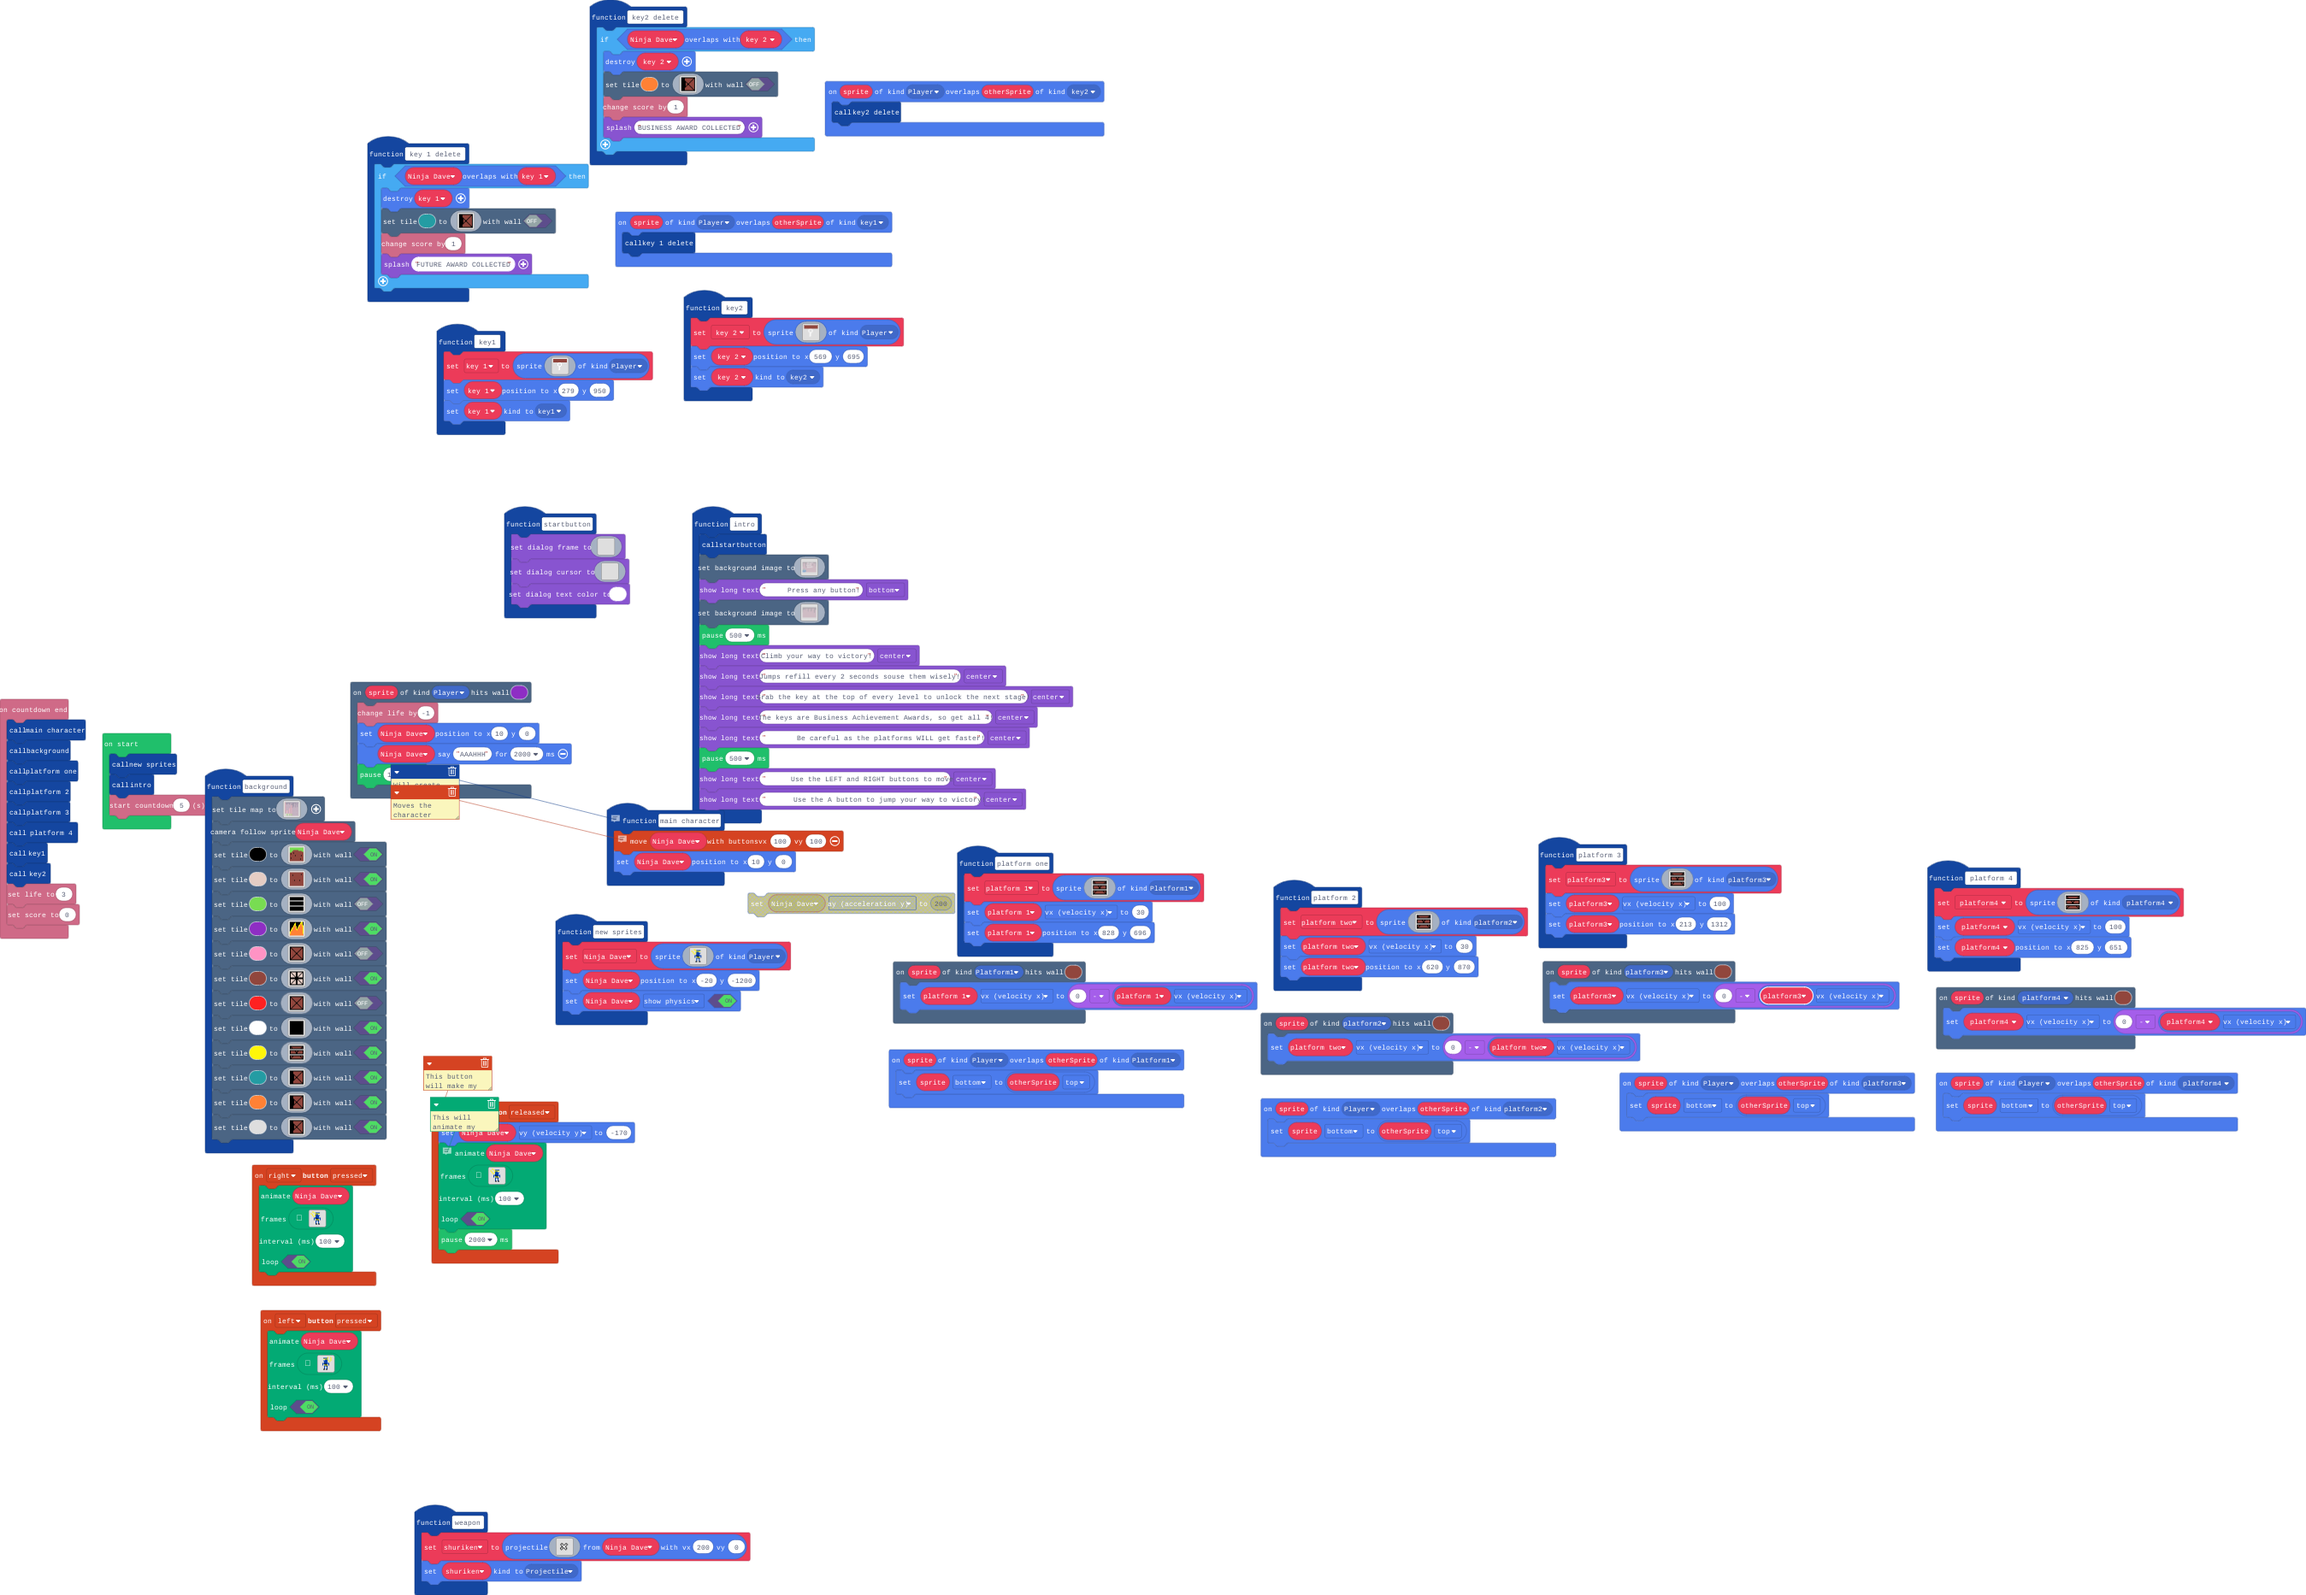
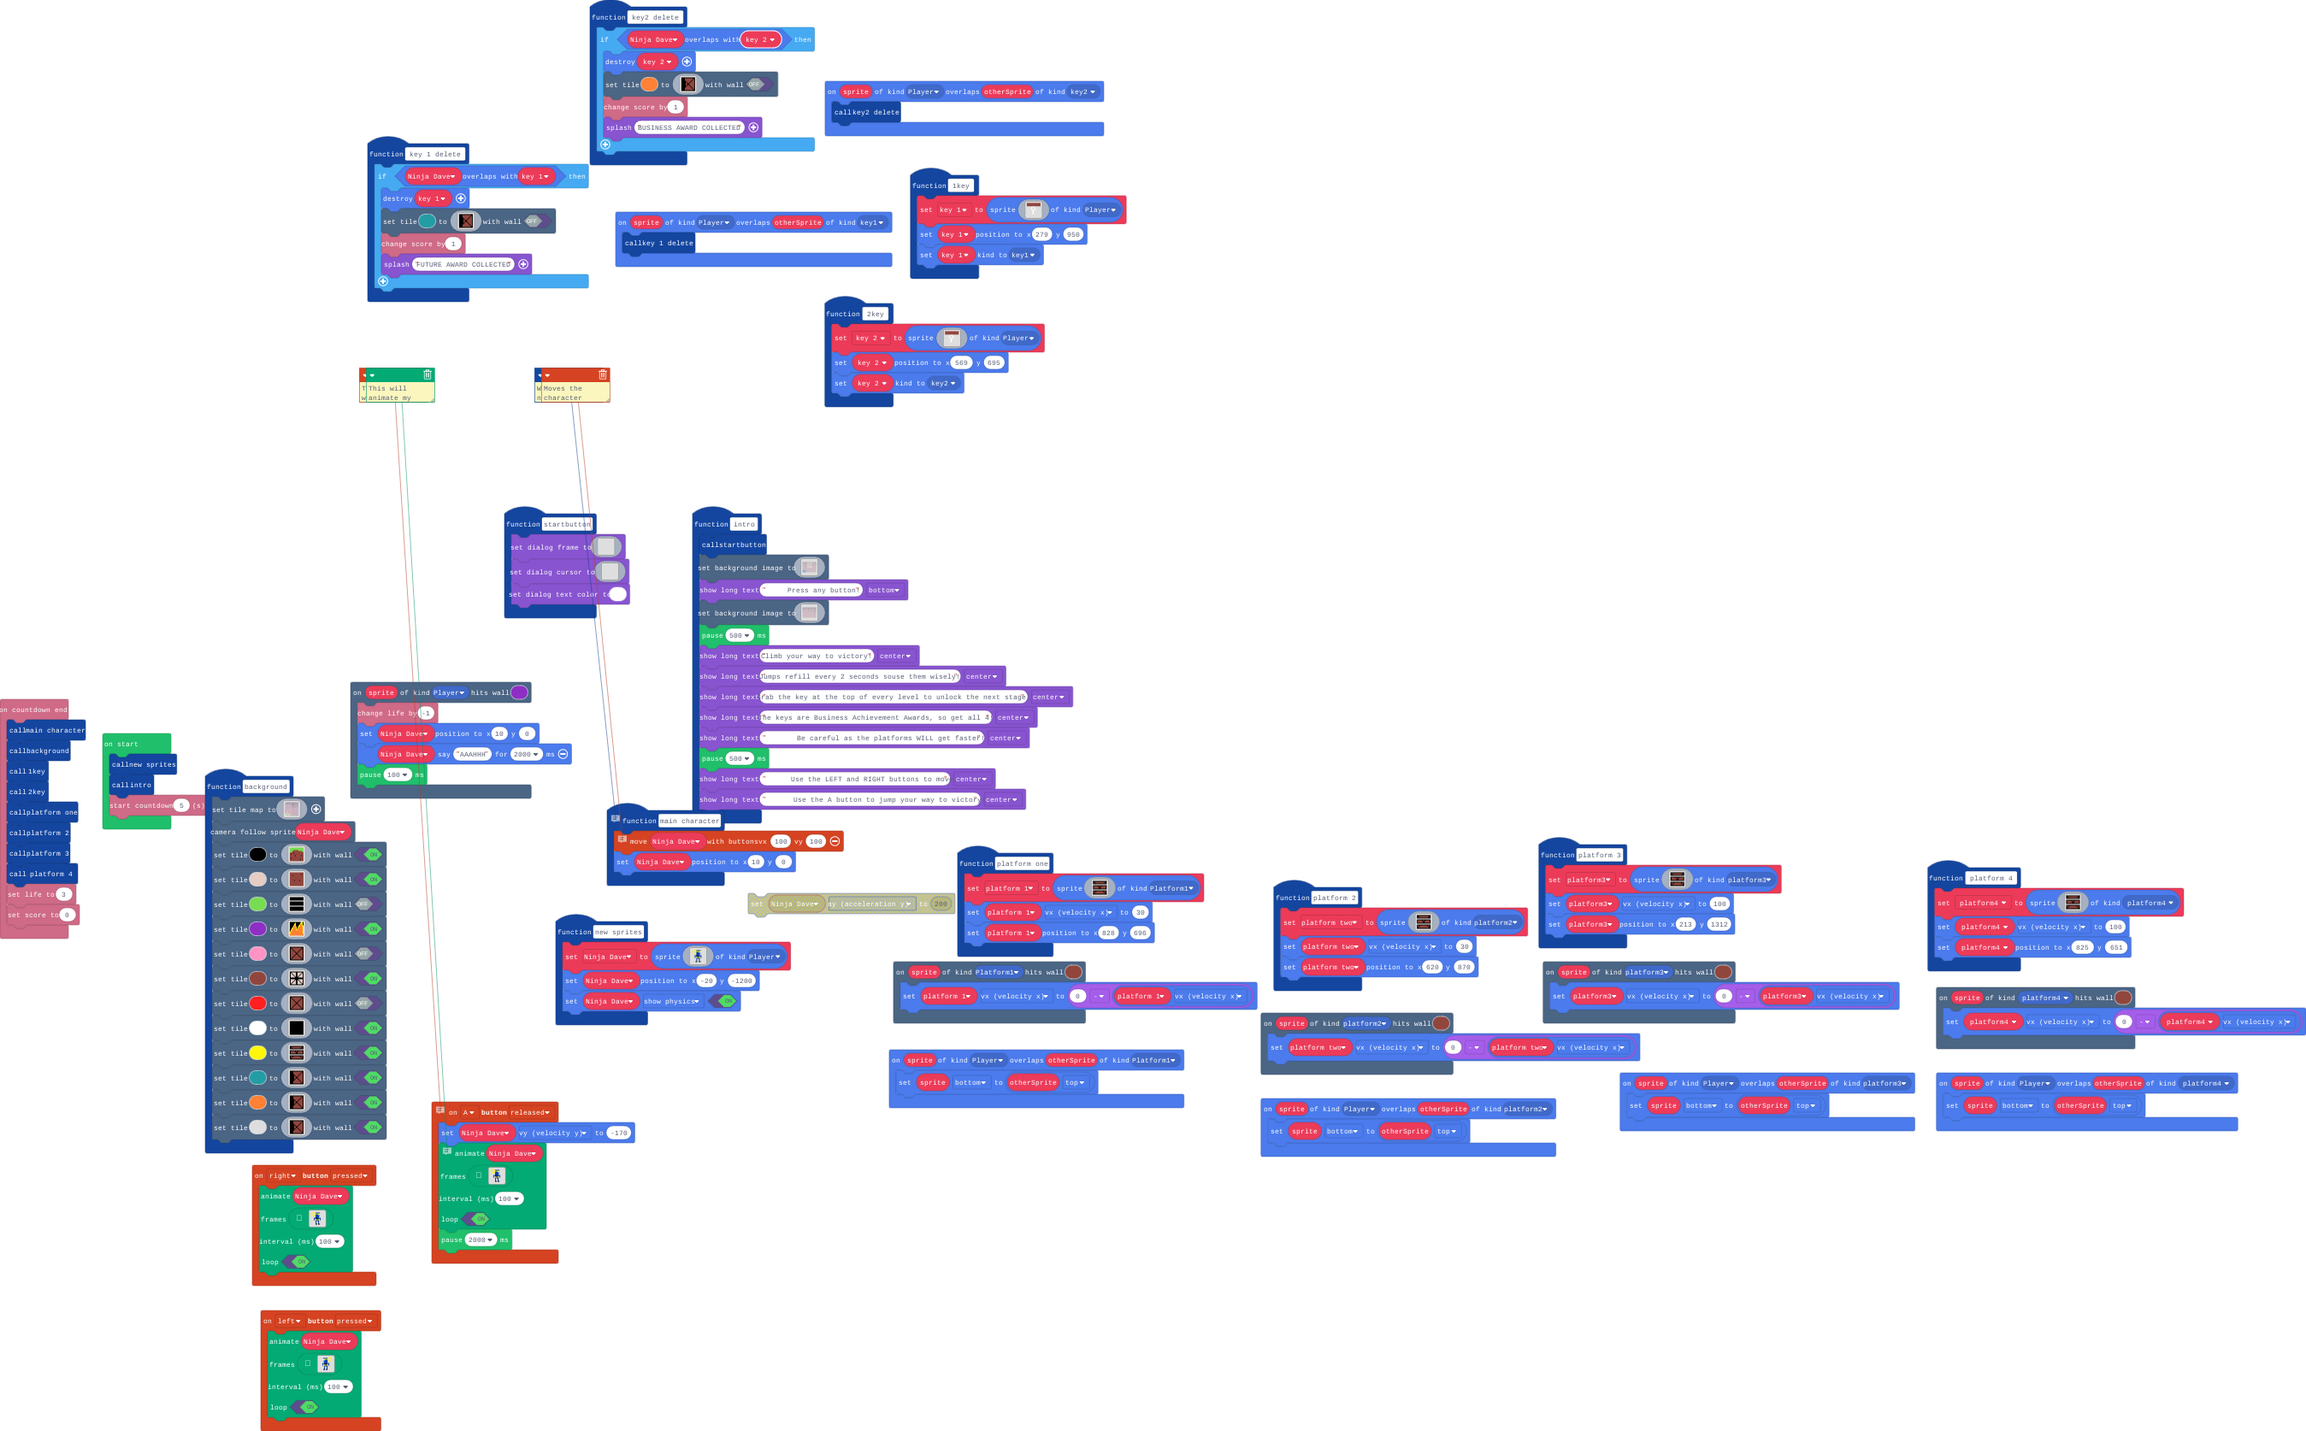
changed the game

Changed region(s): [[0.0, 0.3106, 1.0, 1.0], [0.1557, 0.0, 0.4983, 0.2796]]

diff --git a/main.ts b/main.ts
@@ -9,7 +9,7 @@ namespace SpriteKind {
 scene.onHitTile(SpriteKind.Platform1, 14, function (sprite) {
     platform_1.vx = 0 - platform_1.vx
 })
-function key1 () {
+function _1key () {
     key_1 = sprites.create(img`
 e e e e e e e e e e e e e e e e 
 e e e e e e e e e e e e e e e e 
@@ -31,27 +31,27 @@ e e e e e e e e e e e e e e e e
     key_1.setPosition(279, 950)
     key_1.setKind(SpriteKind.key1)
 }
-function platform_4 () {
-    platform4 = sprites.create(img`
-f f f f f f f f f f f f f f f f 
-f f e e e e e e e e e e e e f f 
-f e f e e e e e e e e e e f e f 
-f f f f f f f f f f f f f f f f 
-1 1 1 1 1 1 1 1 1 1 1 1 1 1 1 1 
-f f f f f f f f f f f f f f f f 
-f e e e e e f e e f e e e e e f 
-f e e e e e e f f e e e e e e f 
-f e e e e e e f f e e e e e e f 
-f f f f f f f f f f f f f f f f 
-1 1 1 1 1 1 1 1 1 1 1 1 1 1 1 1 
-f f f f f f f f f f f f f f f f 
-f e e f e e e e e e e e f e e f 
-f e f e e e e e e e e e e f e f 
-f f e e e e e e e e e e e e f f 
-f f f f f f f f f f f f f f f f 
-`, SpriteKind.platform4)
-    platform4.vx = 100
-    platform4.setPosition(825, 651)
+function _2key () {
+    key_2 = sprites.create(img`
+e e e e e e e e e e e e e e e e 
+e e e e e e e e e e e e e e e e 
+e e e e e e e e e e e e e e e e 
+e e e e e e e e e e e e e e e e 
+. . . . . . 1 1 1 . . . . . . . 
+. . . . . 1 . . . 1 . . . . . . 
+. . . . . 1 . . . 1 . . . . . . 
+. . . . . 1 . . . 1 . . . . . . 
+. . . . . . 1 1 1 . . . . . . . 
+. . . . . . . 1 . . . . . . . . 
+. . . . . . 1 1 . . . . . . . . 
+. . . . . . . 1 . . . . . . . . 
+. . . . . . 1 1 . . . . . . . . 
+. . . . . . . . . . . . . . . . 
+. . . . . . . . . . . . . . . . 
+. . . . . . . . . . . . . . . . 
+`, SpriteKind.Player)
+    key_2.setPosition(569, 695)
+    key_2.setKind(SpriteKind.key2)
 }
 // Will create ninja
 function main_character () {
@@ -83,6 +83,28 @@ f f f f f f f f f f f f f f f f
         info.changeScoreBy(1)
         game.splash("BUSINESS AWARD COLLECTED")
     }
+}
+function platform_4 () {
+    platform4 = sprites.create(img`
+f f f f f f f f f f f f f f f f 
+f f e e e e e e e e e e e e f f 
+f e f e e e e e e e e e e f e f 
+f f f f f f f f f f f f f f f f 
+1 1 1 1 1 1 1 1 1 1 1 1 1 1 1 1 
+f f f f f f f f f f f f f f f f 
+f e e e e e f e e f e e e e e f 
+f e e e e e e f f e e e e e e f 
+f e e e e e e f f e e e e e e f 
+f f f f f f f f f f f f f f f f 
+1 1 1 1 1 1 1 1 1 1 1 1 1 1 1 1 
+f f f f f f f f f f f f f f f f 
+f e e f e e e e e e e e f e e f 
+f e f e e e e e e e e e e f e f 
+f f e e e e e e e e e e e e f f 
+f f f f f f f f f f f f f f f f 
+`, SpriteKind.platform4)
+    platform4.vx = 100
+    platform4.setPosition(825, 651)
 }
 function key_1_delete () {
     if (Ninja_Dave.overlapsWith(key_1)) {
@@ -816,27 +838,6 @@ sprites.onOverlap(SpriteKind.Player, SpriteKind.platform4, function (sprite, oth
 scene.onHitTile(SpriteKind.platform4, 14, function (sprite) {
     platform4.vx = 0 - platform4.vx
 })
-function weapon () {
-    shuriken = sprites.createProjectileFromSprite(img`
-. . . . . . . . . . . . . . . . 
-. . . . . . . . . . . . . . . . 
-. . . . . . . . . . . . . . . . 
-. . . . . . . . . . . . . . . . 
-. . . . f f . . . f f . . . . . 
-. . . f 1 1 f . f 1 1 f . . . . 
-. . . . f 1 1 f 1 1 f . . . . . 
-. . . . . f 1 1 1 f . . . . . . 
-. . . . f f 1 1 1 f . . . . . . 
-. . . f 1 1 f f 1 1 f . . . . . 
-. . . f 1 f . . f 1 f . . . . . 
-. . . . f . . . . f . . . . . . 
-. . . . . . . . . . . . . . . . 
-. . . . . . . . . . . . . . . . 
-. . . . . . . . . . . . . . . . 
-. . . . . . . . . . . . . . . . 
-`, Ninja_Dave, 200, 0)
-    shuriken.setKind(SpriteKind.Projectile)
-}
 function platform_2 () {
     platform_two = sprites.create(img`
 f f f f f f f f f f f f f f f f 
@@ -1000,37 +1001,15 @@ f f f f f f f f f f f f f f f f
 scene.onHitTile(SpriteKind.platform2, 14, function (sprite) {
     platform_two.vx = 0 - platform_two.vx
 })
-function key2 () {
-    key_2 = sprites.create(img`
-e e e e e e e e e e e e e e e e 
-e e e e e e e e e e e e e e e e 
-e e e e e e e e e e e e e e e e 
-e e e e e e e e e e e e e e e e 
-. . . . . . 1 1 1 . . . . . . . 
-. . . . . 1 . . . 1 . . . . . . 
-. . . . . 1 . . . 1 . . . . . . 
-. . . . . 1 . . . 1 . . . . . . 
-. . . . . . 1 1 1 . . . . . . . 
-. . . . . . . 1 . . . . . . . . 
-. . . . . . 1 1 . . . . . . . . 
-. . . . . . . 1 . . . . . . . . 
-. . . . . . 1 1 . . . . . . . . 
-. . . . . . . . . . . . . . . . 
-. . . . . . . . . . . . . . . . 
-. . . . . . . . . . . . . . . . 
-`, SpriteKind.Player)
-    key_2.setPosition(569, 695)
-    key_2.setKind(SpriteKind.key2)
-}
 info.onCountdownEnd(function () {
     main_character()
     background()
+    _1key()
+    _2key()
     platform_one()
     platform_2()
     platform_3()
     platform_4()
-    key1()
-    key2()
     info.setLife(3)
     info.setScore(0)
 })
@@ -1271,10 +1250,9 @@ scene.onHitTile(SpriteKind.platform3, 14, function (sprite) {
 })
 let platform3: Sprite = null
 let platform_two: Sprite = null
-let shuriken: Sprite = null
-let key_2: Sprite = null
-let Ninja_Dave: Sprite = null
 let platform4: Sprite = null
+let Ninja_Dave: Sprite = null
+let key_2: Sprite = null
 let key_1: Sprite = null
 let platform_1: Sprite = null
 new_sprites()
